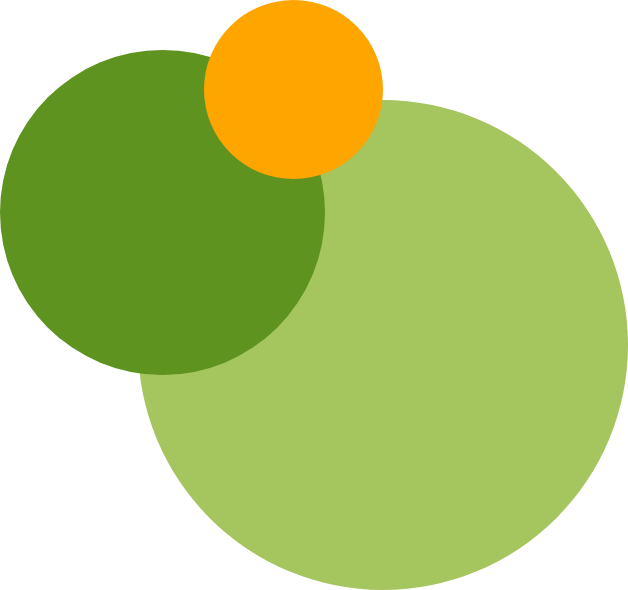
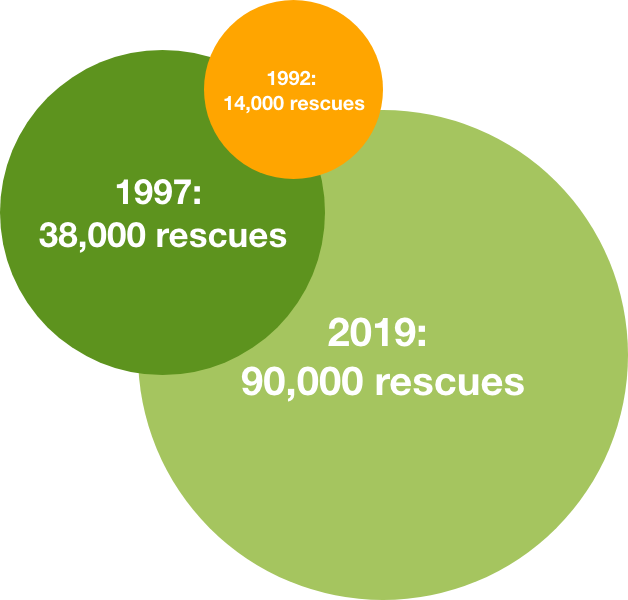
Infographic + more

diff --git a/index.html b/index.html
@@ -31,11 +31,13 @@
        </h1>
     </section>
   <section class="pic two">
-    <div class="graph">
-    <img src='images/graph.png'>
+      <div class="row">
+        <div class="column"> <div class="graph">
+          <img src='images/graph.png'>
+            </div> </div>
+        <div class="column"> <h9 class="hero"> Our rescues have grown at an extreme rate since we began. 14 000 rescues were completed in 1992, and this grew to 38 000 in 1997, after only a decade of serving. These numbers contiue to grow, as we recieve almost 1 000 requests for help everyday during the seasons of summer and spring. Not only this, but during the 2018/19 fincial year we rescued over 90 000 animals, and we expect this to be a lot higher this year due to the natural disasters destroying the habbits of our native wildlife.</h9> 
+        </div>
     </div>
-    <h5> Stats </h5>
-    <p>  In 1992, over 14,000 rescues were conducted. By June 1997, this grew to 38,000 animal rescues state-wide. In the last financial year WIRES received over 90,000 rescue requests to help native animals in distress and WIRES can now receive up to 1,000 rescue requests for help a day during peak seasons, which are spring and summer.  </p>
     </section>
   <section class="pic three">
              <h1 class="hero">

diff --git a/About_Us.html b/About_Us.html
@@ -24,8 +24,9 @@
     </section>
   <section class="vol b">
           <div class="row">
-        <div class="column"> <h9> Our jorney begins in 1985 when we noticed an obvious need for a wildlife rescue service. Before we were able to launch, no organisation, government or conservation group would take responsibility for the rescue and care of Australian animals. We were fortuate enough to coordinate a variety of rescuers and carers, and officaly launched as an orginisation in March of 1986. </h9> </div>
-        <div class="column"> <h3> History </h3> </div>
+        <div class="column"> <h9> Our jorney begins in 1985 when we noticed an obvious need for a wildlife 
+    rescue service. Before we were able to launch, no organisation,government or conservation group would take responsibility for the rescue and care of Australian animals. We were fortuate enough to coordinate a variety of rescuers and carers, and officaly launched as an orginisation in March of 1986. </h9> </div>
+        <div class="column"> <h5> History </h5> </div>
       </div>
     </section>
   <section class="vol c">

diff --git a/style.css b/style.css
@@ -122,6 +122,14 @@ h4 {
   margin-left: 100px;
   margin-right: 100px;
 }
+h5 {
+  color: white;
+  font-size: 40px;
+  text-align: center;
+  margin-top: 160px;
+  margin-left: auto;
+  margin-right: auto;
+}
 h6 {
   color: #5D931E;
   font-size: 60px;
@@ -150,6 +158,9 @@ h9 {
   color: white;
   font-size: 20px;
   text-align: center;
+  margin-left: 30px;
+  margin-right: 30px;
+  margin-top: 260px;
 }
 .hero {
   position: absolute;
@@ -208,8 +219,7 @@ h9 {
 }
 /* Donation Value Buttons */
 .button-donations {
-  float: right;
-  margin-top: 420px;
+  margin-top: 40px;
   margin-left: auto;
   margin-right: auto;
 }
@@ -232,14 +242,13 @@ h9 {
 }
 
 .graph {
-  width: 200px;
-  height: auto;
+margin-top: 50px;
+margin-left: 40px;
 }
 
 .column {
   float: left;
   width: 50%;
-  position: absolute;
 }
 
 /* Clear floats after the columns */
@@ -247,5 +256,4 @@ h9 {
   content: "";
   display: table;
   clear: both;
-  position: absolute;
 }

diff --git a/Donate.html b/Donate.html
@@ -22,7 +22,6 @@
   <section class="aaa">
          <h4 class="hero">
        Your gift today will help change the lives of our native wildlife tomorrow
-       </h4>
        <div class="button-donations" > 
        <a href="" class="btn"> $10 </a>
        <a href="" class="btn"> $50 </a>
@@ -31,6 +30,7 @@
        <a href="" class="btn"> $500 </a>
        <a href="" class="btn"> Other </a> 
        </div>
+       </h4>
     </section>
   <section class="don bbb">
          <h6 class="hero">
